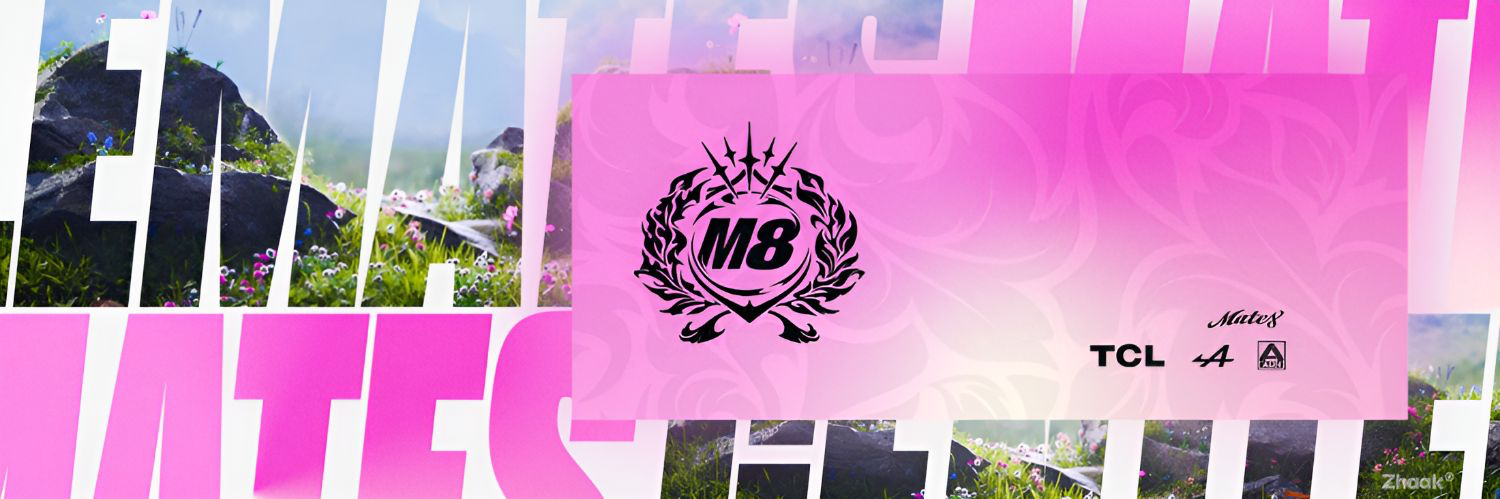
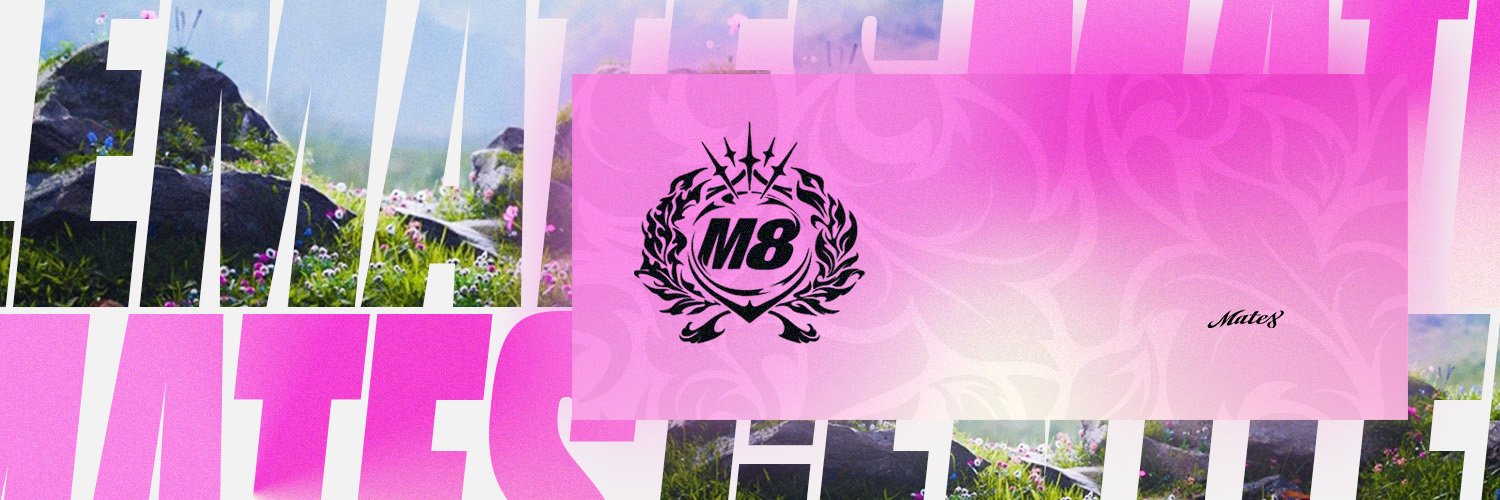
x and y text position

diff --git a/src/components/preview-card.png/preview-card.tsx b/src/components/preview-card.png/preview-card.tsx
@@ -5,11 +5,11 @@ import { Layer, Stage, Image, Text } from 'react-konva';
 import useImage from 'use-image';
 import { Loader } from '../loader';
 import useImageUtils from '../../hooks/useImageUtils';
-import { type Text as TextType } from '../../utils/types';
+import { type CanvasText } from '../../utils/types';
 
 type PreviewCardProps = {
-  username: TextType;
-  role: TextType;
+  username: CanvasText;
+  role: CanvasText;
   bannerUrl: string;
   onDownload: () => void;
   onCopy: () => void;
@@ -131,12 +131,12 @@ const PreviewCard = (props: PreviewCardProps) => {
                       text={props.username.value}
                       x={
                         getImageDimensions(containerWidth, lastValidDimensions)
-                          .width * 0.5
+                          .width * (props.username.xMultiplier || 0.778)
                       }
                       y={
                         getImageDimensions(containerWidth, lastValidDimensions)
                           .height *
-                          0.34 +
+                          (props.username.yMultiplier || 0.34) +
                         (getImageDimensions(containerWidth, lastValidDimensions)
                           .width *
                           0.045 -

diff --git a/src/utils/artists.ts b/src/utils/artists.ts
@@ -9,7 +9,14 @@ const ARTISTS: ArtistGroup[] = [
     label: 'Gentle Mates',
     group: 'm8',
     inputs: [
-      { id: 'username', type: 'text', font: 'TuskerGrotesk', color: '#1e1d1e' },
+      {
+        id: 'username',
+        type: 'text',
+        font: 'TuskerGrotesk',
+        color: '#1e1d1e',
+        xMultiplier: 0.778,
+        yMultiplier: 0.34,
+      },
       { id: 'role', type: 'text' },
       {
         id: 'supporter-level',
@@ -31,7 +38,14 @@ const ARTISTS: ArtistGroup[] = [
     label: 'Zhaak',
     group: 'zhaak',
     inputs: [
-      { id: 'username', type: 'text', font: 'DharmaGothic', color: '#000000' },
+      {
+        id: 'username',
+        type: 'text',
+        font: 'DharmaGothic',
+        color: '#000000',
+        xMultiplier: 0.652,
+        yMultiplier: 0.48,
+      },
     ],
     covers: [{ icon: zhaakIcon, number: 1 }],
   },

diff --git a/src/App.tsx b/src/App.tsx
@@ -21,6 +21,8 @@ const App = () => {
     bannerNumber: 1,
   });
 
+  const usernameInput = getInput(selectedArtist.name, 'username');
+
   const { handleDownload, handleCopy, getBannerUrl } = useImageUtils({
     username,
   });
@@ -47,8 +49,10 @@ const App = () => {
           <PreviewCard
             username={{
               value: username,
-              font: getInput(selectedArtist.name, 'username')?.font,
-              color: getInput(selectedArtist.name, 'username')?.color,
+              font: usernameInput?.font,
+              color: usernameInput?.color,
+              xMultiplier: usernameInput?.xMultiplier,
+              yMultiplier: usernameInput?.yMultiplier,
             }}
             role={{ value: role }}
             bannerUrl={getBannerUrl(selectedArtist, supporterLevel)}

diff --git a/src/utils/types.ts b/src/utils/types.ts
@@ -3,10 +3,12 @@ type Artist = {
   bannerNumber: number;
 };
 
-type Text = {
+type CanvasText = {
   value: string;
   font?: string;
   color?: string;
+  xMultiplier?: number;
+  yMultiplier?: number;
 };
 
 type SelectOption = {
@@ -23,6 +25,8 @@ type ArtistGroup = {
     font?: string;
     color?: string;
     default?: string;
+    xMultiplier?: number;
+    yMultiplier?: number;
     options?: SelectOption[];
   }[];
   covers: {
@@ -31,4 +35,4 @@ type ArtistGroup = {
   }[];
 };
 
-export type { Artist, ArtistGroup, SelectOption, Text };
+export type { Artist, ArtistGroup, SelectOption, CanvasText };
